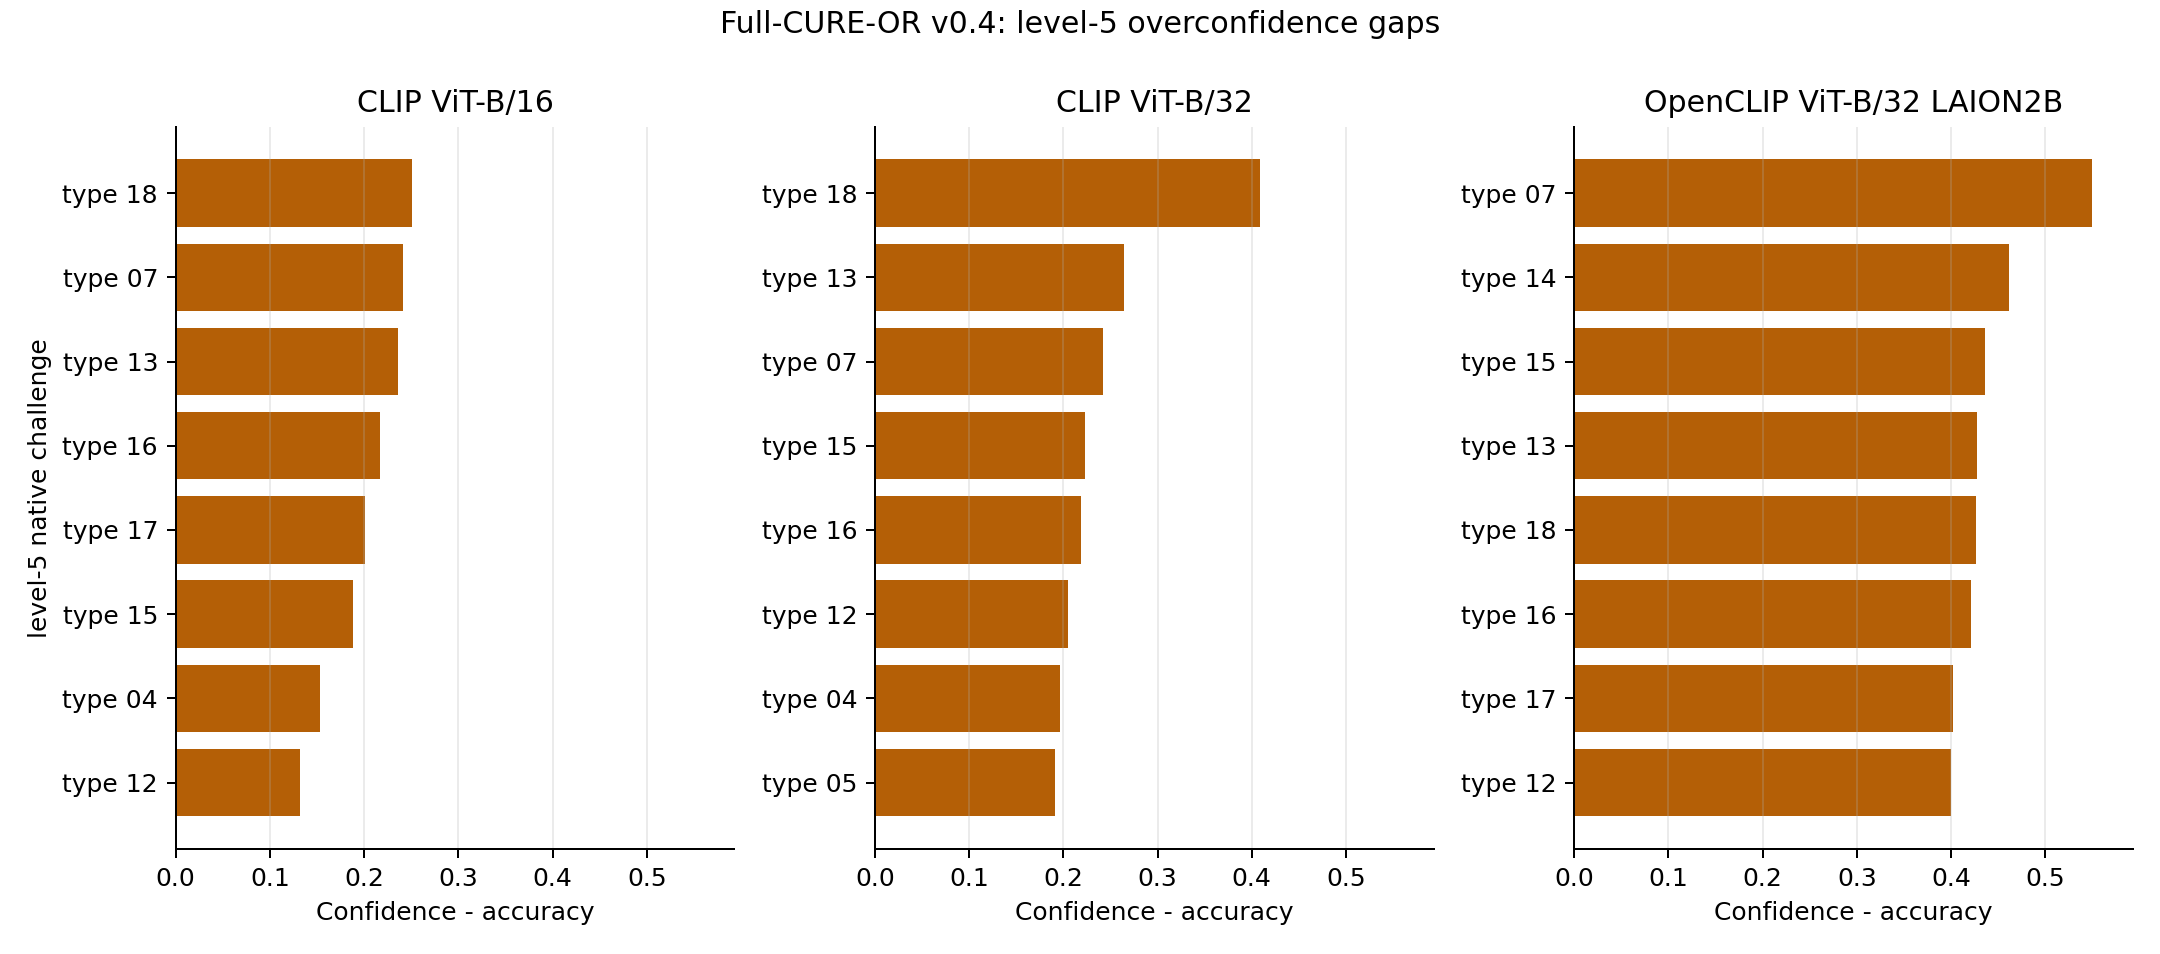
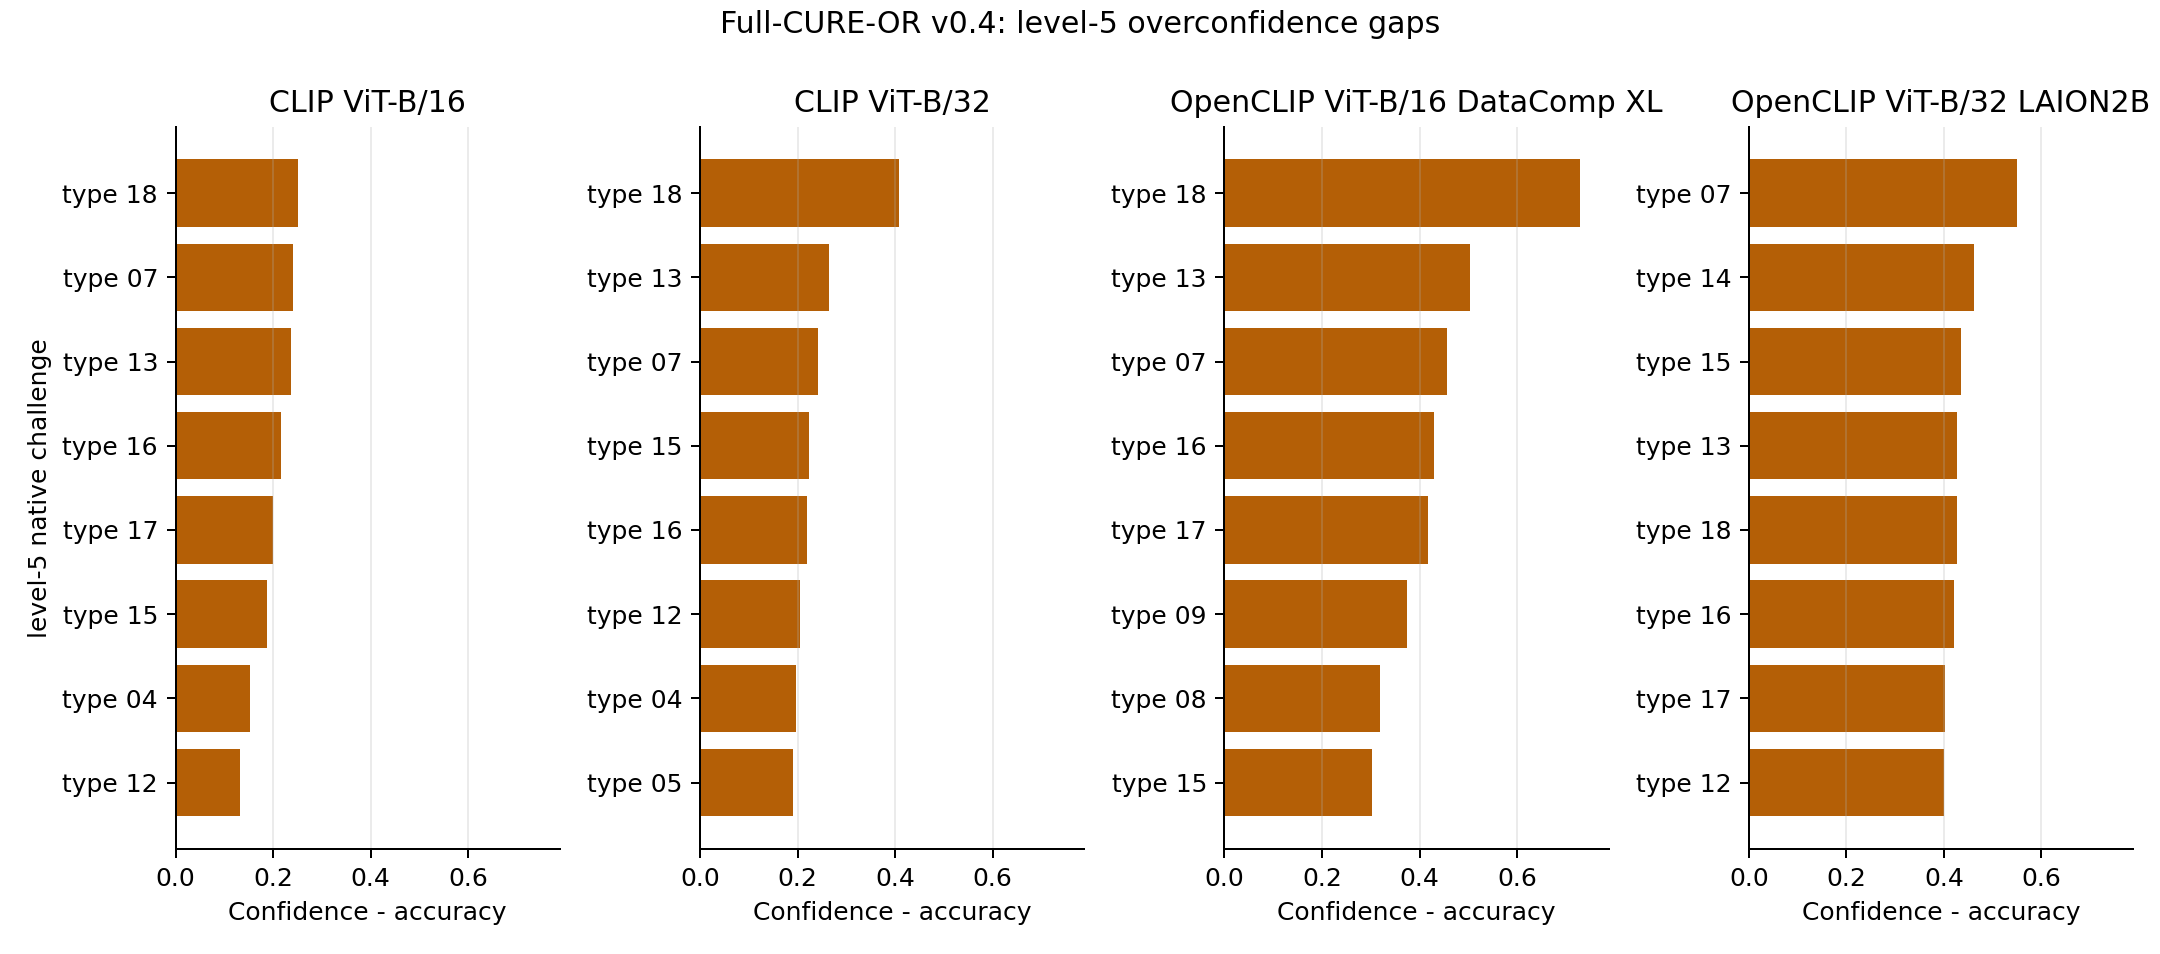
Add DataComp XL confidence analysis

diff --git a/scripts/analyze_full_cure_or_confidence.py b/scripts/analyze_full_cure_or_confidence.py
@@ -227,7 +227,7 @@ def write_csv(path: Path, rows: list[dict]) -> None:
         path.write_text("", encoding="utf-8")
         return
     with path.open("w", newline="", encoding="utf-8") as handle:
-        writer = csv.DictWriter(handle, fieldnames=list(rows[0].keys()))
+        writer = csv.DictWriter(handle, fieldnames=list(rows[0].keys()), lineterminator="\n")
         writer.writeheader()
         writer.writerows(rows)
 

diff --git a/reports/full_cure_or_confidence_v04.md b/reports/full_cure_or_confidence_v04.md
@@ -3,10 +3,11 @@
 ## Scope
 
 This analysis uses the unchanged Full-CURE-OR v0.4 probe predictions for the
-three usable zero-shot baselines:
+four usable CLIP/OpenCLIP-family zero-shot baselines:
 
 - CLIP ViT-B/16;
 - OpenCLIP ViT-B/32 LAION2B;
+- OpenCLIP ViT-B/16 DataComp XL;
 - CLIP ViT-B/32.
 
 SigLIP Base P16 224 is excluded from the main confidence interpretation because
@@ -35,24 +36,29 @@ For each model/challenge/level group, the analysis reports:
 | --- | ---: | ---: | ---: | ---: | ---: |
 | CLIP ViT-B/16 | 0.0994 | 0.2610 | 0.1616 | 0.1616 | 0.0439 |
 | OpenCLIP ViT-B/32 LAION2B | 0.0890 | 0.4781 | 0.3891 | 0.3891 | 0.3141 |
+| OpenCLIP ViT-B/16 DataComp XL | 0.1451 | 0.4997 | 0.3545 | 0.3545 | 0.3240 |
 | CLIP ViT-B/32 | 0.0741 | 0.2716 | 0.1974 | 0.1974 | 0.0700 |
 
 The most important result is that confidence does not collapse at the same rate
-as accuracy. OpenCLIP is the clearest case: at level 5, mean accuracy is 0.0890
-while mean confidence is still 0.4781. That creates a calibration gap of 0.3891
-and a high-confidence wrong rate of 0.3141.
+as accuracy. DataComp XL improves mean level-5 accuracy to 0.1451, but still
+keeps 0.4997 mean confidence and a 0.3545 calibration gap. OpenCLIP ViT-B/32
+LAION2B is similarly miscalibrated at level 5: mean accuracy is 0.0890 while
+mean confidence is 0.4781, with a 0.3141 high-confidence wrong rate.
 
 ## Worst Level-5 Overconfidence Cases
 
 | Model | Challenge | Accuracy | Mean confidence | Calibration gap | High-conf wrong rate |
 | --- | --- | ---: | ---: | ---: | ---: |
-| CLIP ViT-B/16 | type 18, grayscale salt and pepper noise | 0.0100 | 0.2613 | 0.2513 | 0.0000 |
-| CLIP ViT-B/32 | type 18, grayscale salt and pepper noise | 0.0100 | 0.4188 | 0.4088 | 0.2680 |
+| OpenCLIP ViT-B/16 DataComp XL | type 18, grayscale salt and pepper noise | 0.0100 | 0.7393 | 0.7293 | 0.9760 |
 | OpenCLIP ViT-B/32 LAION2B | type 07, dirty lens 1 | 0.0480 | 0.5972 | 0.5492 | 0.6240 |
+| CLIP ViT-B/32 | type 18, grayscale salt and pepper noise | 0.0100 | 0.4188 | 0.4088 | 0.2680 |
+| CLIP ViT-B/16 | type 18, grayscale salt and pepper noise | 0.0100 | 0.2613 | 0.2513 | 0.0000 |
 
 This gives the writeup a stronger claim than "accuracy drops under native
 distortions." Some native distortions produce low-accuracy, high-confidence
-failure modes, and the pattern differs by model.
+failure modes, and the pattern differs by model. DataComp XL is the strongest
+zero-shot row by accuracy, but its worst level-5 overconfidence case is also the
+most severe one in this confidence table.
 
 ## Clean Calibration Context
 
@@ -60,12 +66,13 @@ failure modes, and the pattern differs by model.
 | --- | ---: | ---: | ---: | ---: | ---: |
 | CLIP ViT-B/16 | 0.4440 | 0.5248 | 0.0808 | 0.0808 | 0.1340 |
 | OpenCLIP ViT-B/32 LAION2B | 0.4120 | 0.6648 | 0.2528 | 0.2528 | 0.3320 |
+| OpenCLIP ViT-B/16 DataComp XL | 0.5460 | 0.7046 | 0.1586 | 0.1586 | 0.2080 |
 | CLIP ViT-B/32 | 0.3500 | 0.4644 | 0.1144 | 0.1171 | 0.1220 |
 
-OpenCLIP is already overconfident on clean Full-CURE-OR images, but the gap
-widens under native challenge severity. This matters for any deployment framing:
-the model does not merely fail more often; it can fail while preserving
-substantial confidence.
+OpenCLIP-family models are already overconfident on clean Full-CURE-OR images,
+and the gap widens under native challenge severity. This matters for any
+deployment framing: the model does not merely fail more often; it can fail while
+preserving substantial confidence.
 
 ## Artifacts
 
@@ -100,6 +107,6 @@ MPLCONFIGDIR=/private/tmp/cure_or_pp_mpl MPLBACKEND=Agg \
 
 ## Next Step
 
-Add the same confidence/calibration tables to any new usable model family before
-expanding the v0.4 row count. Otherwise, model additions will improve the
-leaderboard but not the paper-level failure analysis.
+Add the same confidence/calibration tables to any new usable pretrained VLM
+family before expanding the v0.4 row count. Otherwise, model additions will
+improve the leaderboard but not the paper-level failure analysis.

diff --git a/reports/full_cure_or_probe_v04_status.md b/reports/full_cure_or_probe_v04_status.md
@@ -95,18 +95,18 @@ also near chance. This supports a stronger research claim than a single
 produce challenge-specific and model-specific robustness rankings.
 
 This is still a probe, not the final arXiv-scale benchmark. The main remaining
-gaps are more usable pretrained model families, extending
-confidence/calibration analysis to every new zero-shot/VLM model, and a real
-transfer validation sample. The v0.4 block now has eight usable baseline rows
-across four CLIP/OpenCLIP-family zero-shot models and four frozen-feature prototype
-classifiers, plus one SigLIP diagnostic failure under the current prompt
-protocol.
+gaps are more usable pretrained model families outside nearby CLIP/OpenCLIP
+variants and a real transfer validation sample. The v0.4 block now has eight
+usable baseline rows across four CLIP/OpenCLIP-family zero-shot models and four
+frozen-feature prototype classifiers, plus one SigLIP diagnostic failure under
+the current prompt protocol.
 
-The confidence/calibration pass for the three usable zero-shot baselines is now
-complete. It shows that OpenCLIP has the strongest overconfidence failure at
-level 5: mean accuracy is 0.0890 while mean confidence remains 0.4781, with a
-0.3141 high-confidence wrong rate. Details are in
-`reports/full_cure_or_confidence_v04.md`.
+The confidence/calibration pass for the four usable CLIP/OpenCLIP-family
+zero-shot baselines is now complete. DataComp XL improves mean level-5 accuracy
+to 0.1451 but still retains 0.4997 mean confidence, with a 0.3545 calibration
+gap and a 0.3240 high-confidence wrong rate. Its worst level-5 overconfidence
+case is type 18, grayscale salt-and-pepper noise: 0.0100 accuracy with 0.7393
+mean confidence. Details are in `reports/full_cure_or_confidence_v04.md`.
 
 The type-10 grayscale no-challenge control is also complete. It uses 499 paired
 control rows and shows that grayscale alone is damaging but cannot explain the
@@ -231,7 +231,7 @@ strong pretrained model family on the same v0.4 manifest before expanding row
 count. Candidate directions:
 
 1. add at least one non-CLIP/OpenCLIP VLM family with usable clean accuracy;
-2. extend confidence-collapse and calibration tables to each new usable
+2. extend confidence-collapse and calibration tables to any further usable
    zero-shot/VLM model;
 3. collect a small real transfer validation sample and compare its ranking
    against native CURE-OR severity rankings.

diff --git a/docs/serious_level_plan.md b/docs/serious_level_plan.md
@@ -154,13 +154,19 @@ Do not publish the main Kaggle version until these are done:
   - CLIP ViT-B/32 mean level-5 native accuracy: 0.0741;
   - SigLIP Base P16 224 mean native accuracy: 0.0103;
   - conclusion: there are three usable zero-shot CLIP-family baselines and one
-    documented SigLIP protocol mismatch before adding the non-CLIP prototype
-    block.
+    documented SigLIP protocol mismatch before adding the DataComp XL and
+    non-CLIP prototype blocks.
 - Full-CURE-OR v0.4 confidence/calibration pass, completed:
-  - usable models: CLIP ViT-B/16, OpenCLIP ViT-B/32 LAION2B, CLIP ViT-B/32;
+  - usable models: CLIP ViT-B/16, OpenCLIP ViT-B/32 LAION2B,
+    OpenCLIP ViT-B/16 DataComp XL, CLIP ViT-B/32;
   - OpenCLIP level-5 accuracy: 0.0890;
   - OpenCLIP level-5 mean confidence: 0.4781;
   - OpenCLIP level-5 calibration gap: 0.3891;
+  - DataComp XL level-5 accuracy: 0.1451;
+  - DataComp XL level-5 mean confidence: 0.4997;
+  - DataComp XL level-5 calibration gap: 0.3545;
+  - strongest DataComp XL level-5 overconfidence case: type 18, grayscale
+    salt-and-pepper noise, with 0.0100 accuracy and 0.7393 mean confidence;
   - strongest OpenCLIP level-5 overconfidence case: type 07, dirty lens 1,
     with 0.0480 accuracy and 0.5972 mean confidence.
 - Full-CURE-OR v0.4 type-10 grayscale control, completed:
@@ -242,8 +248,8 @@ For arXiv or workshop seriousness, add:
   pretrained family diversity because four rows are CLIP/OpenCLIP-family zero-shot
   models and four rows are frozen-feature prototype classifiers;
 - confidence calibration or confidence-collapse analysis on the v0.4 probe,
-  completed for current usable zero-shot baselines and still required for new
-  models;
+  completed for the current four usable CLIP/OpenCLIP-family zero-shot
+  baselines and still required for new models;
 - release scripts that regenerate all distortions deterministically;
 - model cards and dataset card;
 - related-work table with exact benchmark differences.
@@ -262,7 +268,8 @@ For arXiv or workshop seriousness, add:
 3. Add another strong pretrained model family on the v0.4 Full-CURE-OR
    manifest, preferably a non-CLIP/OpenCLIP VLM family rather than another
    nearby CLIP variant or nearest-centroid prototype.
-4. Add confidence-collapse and calibration tables for each new usable
+4. Add confidence-collapse and calibration tables for each further usable
    zero-shot/VLM Full-CURE-OR model.
 5. Add type 10, grayscale no-challenge, as a separate control condition,
-   completed for current usable zero-shot baselines.
+   completed for the first three CLIP/OpenCLIP zero-shot baselines and still
+   open for DataComp XL.

diff --git a/reports/full_cure_or_readiness_v01.md b/reports/full_cure_or_readiness_v01.md
@@ -23,10 +23,10 @@ Completed locally:
   11-18.
 - expanded v0.4 local-cache model pass with CLIP ViT-B/32 and a SigLIP
   diagnostic result.
-- v0.4 confidence-collapse and calibration analysis for the three usable
+- v0.4 confidence-collapse and calibration analysis for the four usable
+  CLIP/OpenCLIP-family zero-shot baselines.
+- v0.4 type-10 grayscale no-challenge control for the first three usable
   zero-shot baselines.
-- v0.4 type-10 grayscale no-challenge control for the three usable zero-shot
-  baselines.
 - v0.4 leave-clean-condition-out prototype baselines with HGNetV2-B0,
   MobileNetV3-Small, ConvNeXt-Tiny, and DINOv2 ViT-S/14.
 - v0.4 OpenCLIP ViT-B/16 DataComp XL stronger-baseline run.
@@ -156,10 +156,12 @@ Confidence/calibration result:
 | --- | ---: | ---: | ---: | ---: |
 | CLIP ViT-B/16 | 0.0994 | 0.2610 | 0.1616 | 0.0439 |
 | OpenCLIP ViT-B/32 LAION2B | 0.0890 | 0.4781 | 0.3891 | 0.3141 |
+| OpenCLIP ViT-B/16 DataComp XL | 0.1451 | 0.4997 | 0.3545 | 0.3240 |
 | CLIP ViT-B/32 | 0.0741 | 0.2716 | 0.1974 | 0.0700 |
 
 This adds an arXiv-relevant failure mode: native distortions can produce
-low-accuracy, high-confidence predictions, especially for OpenCLIP.
+low-accuracy, high-confidence predictions, including in the stronger DataComp
+XL row.
 
 Grayscale control result:
 
@@ -292,10 +294,10 @@ Artifacts:
 ## Remaining Limitation
 
 The complete 18-folder release is now staged and probed, so the remaining
-limitation is no longer folder availability. The v0.4 probe now has three
-usable zero-shot CLIP-family baselines, one stronger OpenCLIP DataComp XL
-zero-shot baseline, four usable frozen-feature prototype baselines including
-self-supervised DINOv2, and one SigLIP diagnostic failure. It still needs
+limitation is no longer folder availability. The v0.4 probe now has four usable
+CLIP/OpenCLIP-family zero-shot baselines including DataComp XL, four usable
+frozen-feature prototype baselines including self-supervised DINOv2, and one
+SigLIP diagnostic failure. It still needs
 non-CLIP/OpenCLIP pretrained VLM family diversity, uses five paired samples per
 object/challenge group, and does not yet include a real transfer validation
 result. The v0.1 real-transfer scaffold is ready, but actual transferred images

diff --git a/reports/full_cure_or_probe_v04_expanded_models.md b/reports/full_cure_or_probe_v04_expanded_models.md
@@ -64,10 +64,11 @@ manifest using frozen pretrained features and a leave-clean-condition-out
 nearest-centroid protocol. Details are in
 `reports/full_cure_or_prototype_v04.md`.
 
-The first confidence/calibration pass is now complete for the three usable
-zero-shot baselines. OpenCLIP is the clearest overconfidence case: at level 5,
-mean accuracy is 0.0890 but mean confidence is 0.4781. See
-`reports/full_cure_or_confidence_v04.md`.
+The first confidence/calibration pass was initially completed for the three
+usable zero-shot baselines in this expanded-model block and has since been
+extended to OpenCLIP ViT-B/16 DataComp XL. See
+`reports/full_cure_or_confidence_v04.md` for the current four-model confidence
+table.
 
 ## Artifacts
 

diff --git a/README.md b/README.md
@@ -163,8 +163,10 @@ in `reports/full_cure_or_confidence_v04.md`. The type-10 grayscale control is
 in `reports/full_cure_or_grayscale_control_v04.md`. This is now our
 strongest evidence that the native CURE-OR failure pattern survives outside
 mini-CURE-OR and across the full challenge-type grid. The confidence pass adds a
-second paper-level finding: OpenCLIP reaches only 0.0890 mean level-5 accuracy
-while retaining 0.4781 mean confidence. The grayscale control adds a third
+second paper-level finding: the stronger DataComp XL row reaches 0.1451 mean
+level-5 accuracy but still retains 0.4997 mean confidence, while OpenCLIP
+ViT-B/32 LAION2B reaches 0.0890 accuracy with 0.4781 confidence. The grayscale
+control adds a third
 guardrail: grayscale alone hurts, but it does not explain level-5 collapse.
 The prototype pass adds a fourth finding: non-CLIP frozen-feature classifiers
 produce different level-5 robustness rankings. HGNetV2-B0 and